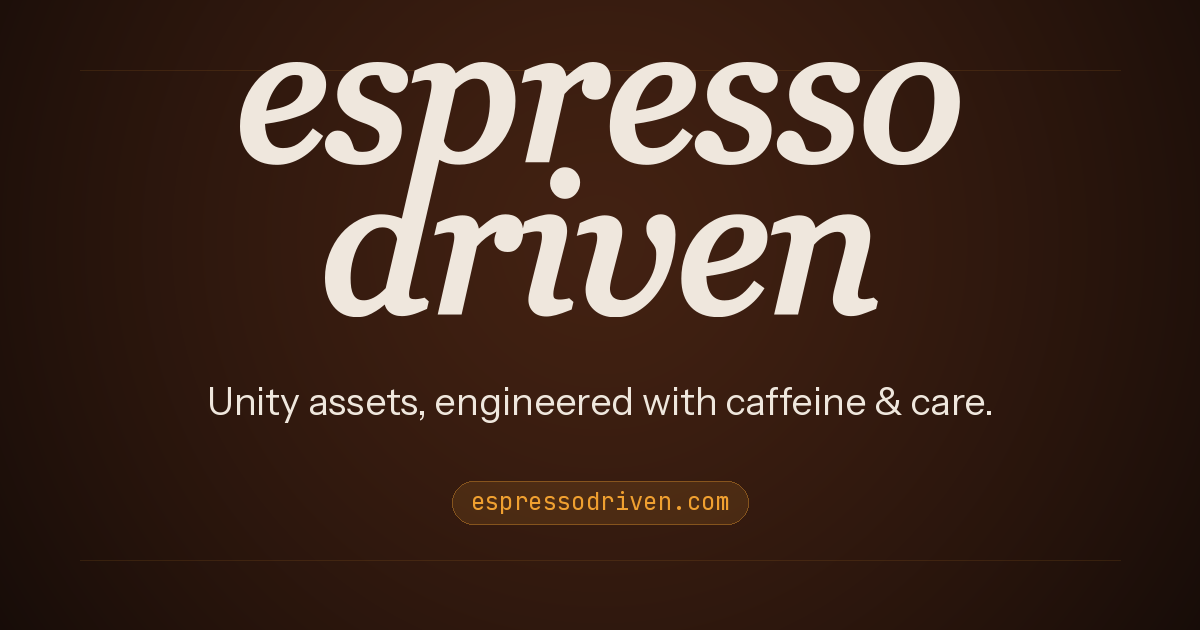
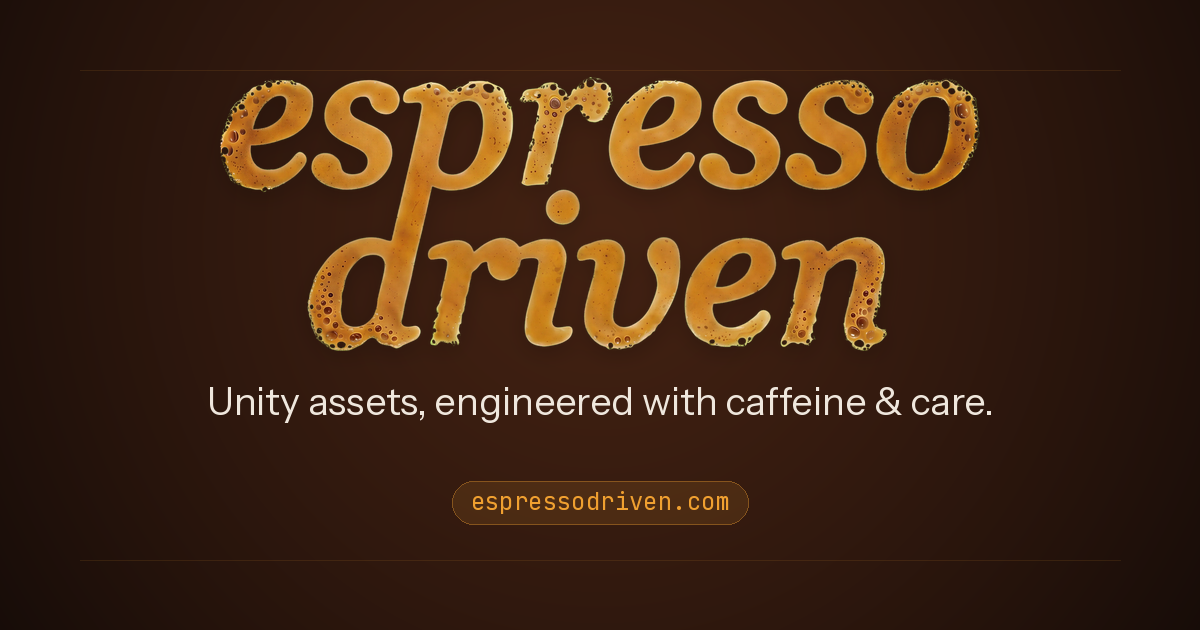
Use crema wordmark artwork for share preview image

Changed region(s): [[0.185, 0.0905, 0.8325, 0.573]]

diff --git a/scripts/make_og.py b/scripts/make_og.py
@@ -4,12 +4,10 @@
 Renders the espressodriven wordmark (from images/logo.svg) over a warm
 espresso-roast background, with the tagline beneath it. Output: images/og.png
 """
-import io
 import math
 from pathlib import Path
 
-import cairosvg
-from PIL import Image, ImageDraw, ImageFont
+from PIL import Image, ImageDraw, ImageFilter, ImageFont
 
 ROOT = Path(__file__).resolve().parent.parent
 FONTS = Path("/mnt/skills/examples/canvas-design/canvas-fonts")
@@ -47,17 +45,22 @@ draw = ImageDraw.Draw(bg, "RGBA")
 draw.line([(80, 70), (W - 80, 70)], fill=GOLD + (28,), width=1)
 draw.line([(80, H - 70), (W - 80, H - 70)], fill=GOLD + (28,), width=1)
 
-# --- Wordmark: render logo.svg, tint to cream -------------------------------
-LOGO_W = 720
-png_bytes = cairosvg.svg2png(url=str(ROOT / "images/logo.svg"), output_width=LOGO_W)
-logo = Image.open(io.BytesIO(png_bytes)).convert("RGBA")
-# Recolor white glyphs -> cream using the alpha as mask
-cream = Image.new("RGBA", logo.size, TEXT + (255,))
-cream.putalpha(logo.split()[3])
-logo = cream
+# --- Wordmark: the crema artwork (transparent, high-res) --------------------
+LOGO_W = 760
+logo = Image.open(ROOT / "images/logo/logo_crema.webp").convert("RGBA")
+logo = logo.crop(logo.getbbox())
+logo = logo.resize((LOGO_W, round(LOGO_W * logo.height / logo.width)), Image.LANCZOS)
+
+# Soft warm shadow so the wordmark lifts off the background
+shadow = Image.new("RGBA", (W, H), (0, 0, 0, 0))
+sh = Image.new("RGBA", logo.size, (0, 0, 0, 0))
+sh.putalpha(logo.split()[3].point(lambda a: int(a * 0.45)))
 
 lx = (W - logo.width) // 2
-ly = int(H * 0.30) - logo.height // 2
+ly = int(H * 0.34) - logo.height // 2
+shadow.paste(sh, (lx, ly + 6), sh)
+shadow = shadow.filter(ImageFilter.GaussianBlur(10))
+bg.paste(shadow, (0, 0), shadow)
 bg.paste(logo, (lx, ly), logo)
 
 # --- Tagline ----------------------------------------------------------------
